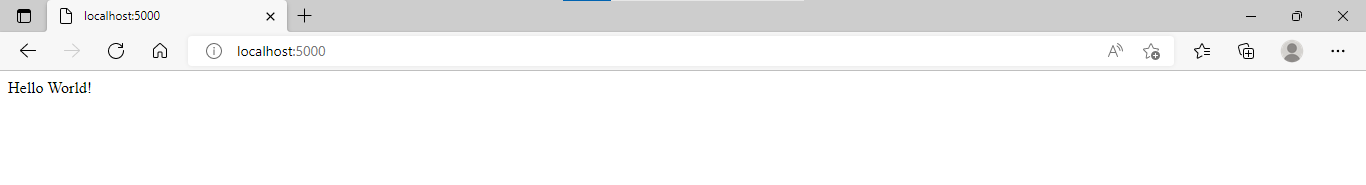
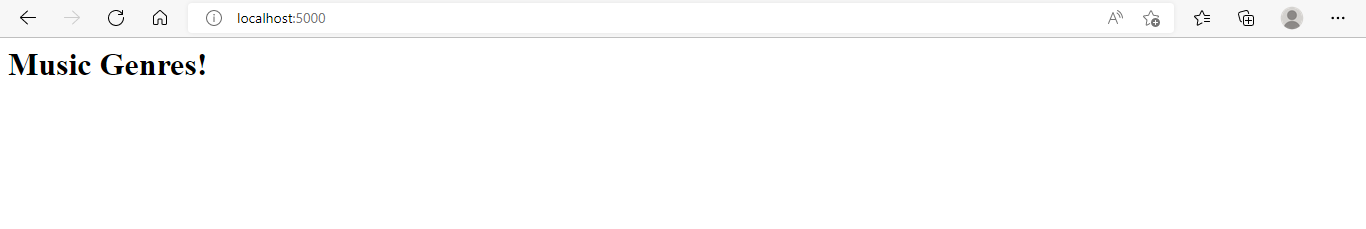
Updated screenshot1

diff --git a/RestApp.py b/RestApp.py
@@ -19,7 +19,7 @@ class Music(db.Model):
 
 @app.route('/')
 def index():
-    return "Hello World!"
+    return "<h1>Music Genres!</h>"
 
 
 @app.route("/music")
@@ -36,7 +36,7 @@ def get_music():
 
 
 @app.route('/music/<id>')
-def get_driink(id):
+def get_music_id(id):         
     music = Music.query.get_or_404(id)         # this will either fetch the drink with a specific id or return a 404 error
     return {"name": music.name, "description":music.description}
 
